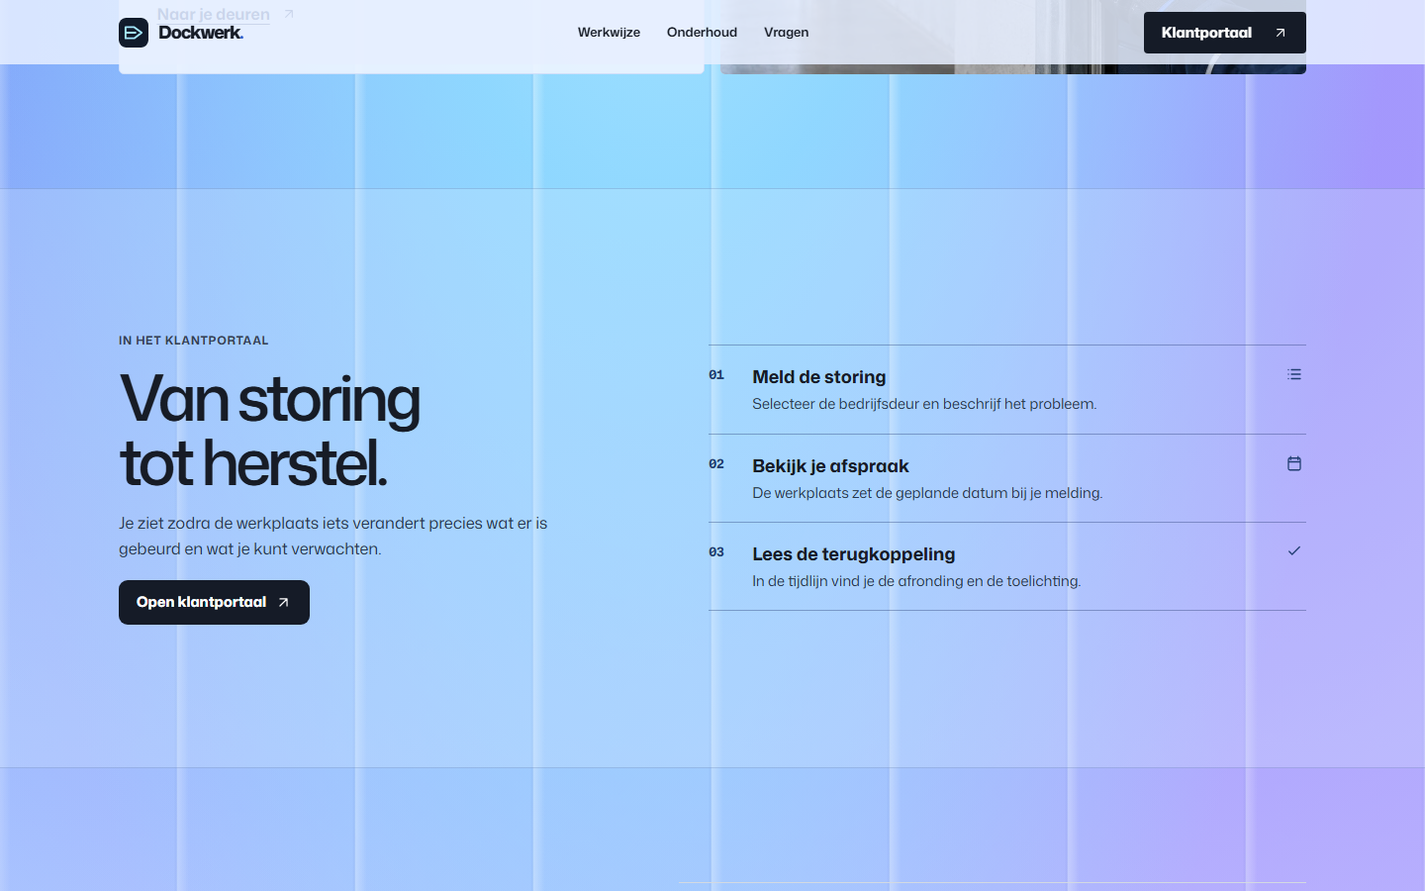
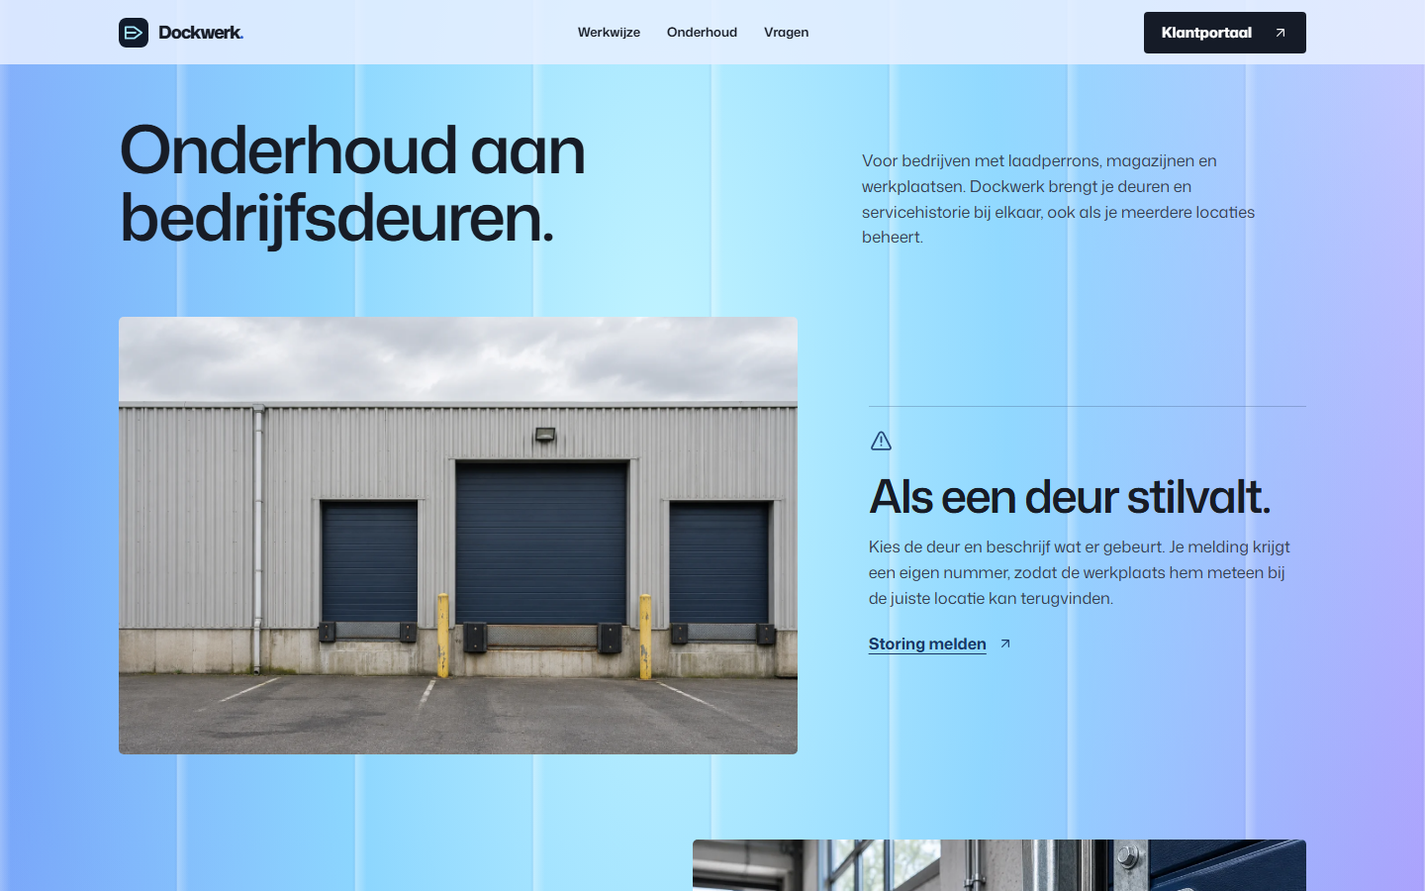
Show the Dockwerk service workflow in an interactive homepage preview

diff --git a/resources/css/home.css b/resources/css/home.css
@@ -1,7 +1,7 @@
 .mode-home {
     --studio-ink: #171c26;
     --studio-muted: #354154;
-    --studio-rule: #d3d9e1;
+    --studio-rule: #41588250;
     color: var(--studio-ink);
 }
 .mode-home .shell { width: min(100% - 112px, 1200px); }
@@ -44,55 +44,114 @@
 .cover-lit .cover-meta { flex-direction: column-reverse; align-items: center; gap: 16px; }
 .cover-lit .cover-meta p { max-width: 47ch; text-wrap: balance; }
 .cover-lit::after { background: linear-gradient(180deg, #07192a40, transparent 40%, #0814266b 64%, #081426f0 100%); }
-.studio-label, .sheet-top { font-size: .73rem; font-weight: 680; color: var(--studio-muted); letter-spacing: .06em; text-transform: uppercase; }
 .service-section, .faq-section { padding-block: clamp(60px, 8vw, 119px); scroll-margin-top: 85px; }
 .service-intro, .faq-section { display: grid; grid-template-columns: 1fr 1.2fr; gap: 38px; align-items: start; }
-.service-intro { margin-bottom: clamp(31px, 4.2vw, 60px); }
-.service-intro h2, .workflow-inner h2, .faq-section h2, .closing-inner h2 { font-size: clamp(2.7rem, 4.45vw, 4.65rem); font-weight: 540; letter-spacing: -.068em; line-height: 1.02; }
-.service-intro p, .workflow-inner > div > p:not(.studio-label), .faq-section > div > p, .service-sheet p { color: var(--studio-muted); font-size: 1.02rem; line-height: 1.57; margin-top: 17px; max-width: 44ch; }
-.service-pair { display: grid; grid-template-columns: 1fr 1fr; gap: 16px; margin-top: 16px; }
+.service-intro { grid-template-columns: 1.35fr .85fr; align-items: end; margin-bottom: clamp(31px, 4.8vw, 68px); }
+.service-intro h2, .workflow-inner h2, .faq-section h2, .closing-inner h2 { font-size: clamp(2.5rem, 4.65vw, 4.65rem); font-weight: 560; letter-spacing: -.04em; line-height: 1.02; }
+.service-intro h2 { max-width: 15ch; }
+.service-intro p, .workflow-copy p, .faq-section > div > p, .service-sheet p { color: var(--studio-muted); font-size: 1.02rem; line-height: 1.57; margin-top: 17px; max-width: 44ch; }
+.service-intro p { margin: 0; }
+.service-pair { display: grid; grid-template-columns: 1.55fr 1fr; align-items: center; gap: clamp(34px, 5vw, 80px); }
+.service-pair-reverse { grid-template-columns: 1fr 1.22fr; margin-top: clamp(44px, 6vw, 86px); }
 .service-pair-reverse .service-image { order: 2; }
-.service-image { overflow: clip; background: #dce2df; border-radius: 5px; }
-.service-image img { display: block; width: 100%; height: 100%; min-height: 315px; max-height: 480px; object-fit: cover; }
-.service-sheet { display: flex; flex-direction: column; min-height: 315px; align-items: start; padding: clamp(21px, 2.6vw, 39px); background: #edf4ffe8; border: 1px solid #d0dffa; border-radius: 5px; }
-.sheet-top { display: flex; align-items: center; justify-content: space-between; width: 100%; gap: 12px; border-bottom: 1px solid #c8ced7; padding-bottom: 12px; margin-bottom: 16px; }
-.service-sheet h3 { font-size: clamp(1.9rem, 3.25vw, 3.3rem); font-weight: 565; letter-spacing: -.06em; line-height: 1.05; }
-.service-sheet p { margin-top: 14px; padding-bottom: 14px; }
-.studio-link { display: inline-flex; align-items: center; gap: 11px; min-height: 44px; margin-top: auto; font-weight: 680; color: #233f78; text-decoration: underline; text-underline-offset: 4px; }
+.service-image { aspect-ratio: 1.55; overflow: clip; background: #354154; border-radius: 5px; }
+.service-pair-reverse .service-image { aspect-ratio: 1.68; }
+.service-image img { display: block; width: 100%; height: 100%; object-fit: cover; }
+.service-sheet { min-width: 0; padding-top: 22px; border-top: 1px solid var(--studio-rule); }
+.service-icon { color: #254779; margin-bottom: 18px; }
+.service-sheet h3 { font-size: clamp(1.85rem, 3.25vw, 3.3rem); font-weight: 570; letter-spacing: -.04em; line-height: 1.06; }
+.service-sheet p { margin-top: 14px; }
+.studio-link { display: inline-flex; align-items: center; gap: 11px; min-height: 44px; margin-top: 12px; font-weight: 680; color: #183667; text-decoration: underline; text-underline-offset: 4px; }
 .studio-primary svg, .studio-link svg, .closing-button svg, .mode-home .nav-cta svg { transition: transform .22s; }
 .studio-primary:hover svg, .studio-link:hover svg, .closing-button:hover svg, .mode-home .nav-cta:hover svg,
 .studio-primary:focus-visible svg, .studio-link:focus-visible svg, .closing-button:focus-visible svg { transform: translate(4px, -3px); }
-.workflow-section { background: #deedff3b; border-block: 1px solid #34548b35; scroll-margin-top: 65px; }
-.workflow-inner { display: grid; grid-template-columns: .9fr 1.13fr; gap: clamp(35px, 8vw, 133px); align-items: center; padding-block: clamp(65px, 10vw, 150px); }
-.workflow-inner h2 { margin-top: 15px; }
-.workflow-inner > div > p:not(.studio-label) { color: #27374e; }
-.studio-primary { margin-top: 19px; }
-.studio-steps { padding: 0; list-style: none; border-top: 1px solid #12275d55; }
-.studio-steps li { display: grid; grid-template-columns: 34px minmax(0, 1fr) 22px; gap: 10px; padding: 18px 0; border-bottom: 1px solid #12275d55; }
-.studio-steps li > span, .studio-steps li > svg { color: #203d71; padding-top: 2px; }
-.studio-steps li > span { font-size: .81rem; font-weight: 740; font-variant-numeric: tabular-nums; }
-.studio-steps h3 { font-size: 1.13rem; font-weight: 700; margin-bottom: 3px; }
-.studio-steps p { color: #27374e; font-size: .92rem; line-height: 1.51; }
+.workflow-section { scroll-margin-top: 85px; }
+.workflow-inner {
+    display: grid;
+    grid-template-columns: minmax(0, .8fr) minmax(0, 1.2fr);
+    gap: clamp(30px, 5vw, 72px);
+    align-items: center;
+    padding: clamp(24px, 5vw, 70px);
+    border-radius: 6px;
+    color: #f3f9ff;
+    background: radial-gradient(ellipse at 87% 16%, #2a4675, transparent 67%), #101b2d;
+}
+.workflow-copy p { color: #c7d7ee; }
+.studio-primary { margin-top: 22px; background: #def3ff; color: #142641; }
+.studio-primary:hover { background: #fff; color: #142641; }
+.studio-primary:focus-visible { outline-color: #b9f3ff; }
+.workflow-preview { min-inline-size: 0; }
+.preview-controls { display: grid; grid-template-columns: repeat(3, minmax(0, 1fr)); gap: 5px; padding: 5px; background: #0c1729; border: 1px solid #6682aa; border-radius: 7px; margin-bottom: 12px; }
+.preview-choice { display: flex; justify-content: center; align-items: center; gap: 8px; min-height: 45px; border-radius: 4px; color: #d4e3fc; font-size: .84rem; font-weight: 680; cursor: pointer; }
+.preview-choice:hover { background: #263f63; color: #fff; }
+.preview-choice:has(input:checked) { background: #e2f2ff; color: #142641; }
+.preview-choice:has(input:focus-visible) { outline: 2px solid #94eaff; outline-offset: 2px; }
+.preview-ticket { overflow: hidden; border-radius: 7px; background: #eff6ff; color: #142641; }
+.preview-ticket-title { padding: clamp(17px, 3vw, 30px); background: #e4efff; border-bottom: 1px solid #bdcdec; }
+.preview-ticket-title p:first-child { display: flex; flex-wrap: wrap; justify-content: space-between; column-gap: 12px; font-size: .8rem; font-weight: 700; color: #294c7a; }
+.preview-ticket-title p:last-child { font-size: .9rem; color: #354d6a; }
+.preview-ticket-title h3 { margin-block: 8px 5px; font-size: clamp(1.4rem, 2.45vw, 2.15rem); font-weight: 660; line-height: 1.12; letter-spacing: -.035em; }
+.preview-stages { display: grid; }
+.preview-stage { grid-area: 1 / 1; padding: clamp(17px, 3vw, 30px); visibility: hidden; }
+.preview-stage h4 { margin-block: 10px 3px; font-size: 1.02rem; font-weight: 740; line-height: 1.3; }
+.preview-stage p { font-size: .92rem; line-height: 1.5; color: #354d6a; max-width: 45ch; }
+.workflow-preview:has([value="reported"]:checked) #preview-reported,
+.workflow-preview:has([value="scheduled"]:checked) #preview-scheduled,
+.workflow-preview:has([value="completed"]:checked) #preview-completed {
+    visibility: visible;
+    animation: preview-enter .28s ease-out both;
+}
+@keyframes preview-enter {
+    from { opacity: .55; transform: translateY(6px); }
+}
+@media (prefers-reduced-motion: reduce) {
+    .preview-stage { animation-duration: 0.01ms !important; }
+}
 .faq-list { border-top: 1px solid var(--studio-rule); }
 .faq-list details { border-bottom: 1px solid var(--studio-rule); }
 .faq-list summary { list-style: none; cursor: pointer; display: flex; justify-content: space-between; align-items: center; gap: 15px; padding-block: 15px; min-height: 54px; font-weight: 650; }
 .faq-list summary:focus-visible { outline: 3px solid #2563df; outline-offset: 3px; }
 .faq-list summary::-webkit-details-marker { display: none; }
-.faq-list summary span { display: grid; place-items: center; width: 24px; height: 24px; flex: none; background: #edf2f9; border-radius: 3px; }
+.faq-list summary span { display: grid; place-items: center; width: 32px; height: 32px; flex: none; background: #edf4ff; color: #1b3b70; border-radius: 4px; transition: background-color .2s, color .2s; }
+.faq-list summary:hover span, .faq-list details[open] summary span { background: #253e65; color: #eff6ff; }
 .faq-list summary span::before, .faq-list summary span::after { content: ''; grid-area: 1 / 1; width: 11px; height: 1px; background: currentColor; transition: transform .23s; }
 .faq-list summary span::after { transform: rotate(90deg); }
 .faq-list details[open] summary span::after { transform: rotate(0); }
 .faq-list details p { margin: 0 37px 17px 0; color: var(--studio-muted); line-height: 1.6; max-width: 54ch; }
-.closing-section { background: #dce8ff8c; border-top: 1px solid #34548b45; }
-.closing-inner { padding-block: clamp(43px, 7vw, 90px); display: flex; justify-content: space-between; gap: 21px; align-items: center; }
+.closing-section { padding-bottom: clamp(28px, 5vw, 74px); }
+.closing-inner {
+    position: relative;
+    isolation: isolate;
+    padding: clamp(26px, 5vw, 71px);
+    display: flex;
+    justify-content: space-between;
+    gap: 21px;
+    align-items: center;
+    border-radius: 6px;
+    background: #172940;
+    color: #f3f9ff;
+}
+.closing-inner::before {
+    content: '';
+    position: absolute;
+    z-index: -1;
+    inset: 0;
+    border-radius: inherit;
+    background: repeating-linear-gradient(180deg, #c6e2ff29 0 1px, transparent 1px 23px, #040d1b6b 23px 25px), #274163;
+    mask-image: linear-gradient(90deg, transparent 22%, #000);
+}
 .closing-inner h2 { max-width: 18ch; }
-.closing-button { background: #151b27; color: white; flex-shrink: 0; }
-.closing-button:hover { background: #283f62; }
+.closing-button { background: #def3ff; color: #142641; flex-shrink: 0; }
+.closing-button:hover { background: #fff; }
+.closing-button:focus-visible { outline-color: #b9f3ff; }
 
 @media (max-width: 1000px) {
     .mode-home .shell { width: calc(100% - 64px); }
     .cover { min-height: clamp(555px, calc(100svh - 65px), 790px); }
     .cover h1 { font-size: 17vw; }
+}
+@media (max-width: 820px) {
+    .workflow-inner { grid-template-columns: minmax(0, 1fr); }
 }
 @media (max-width: 730px) {
     .mode-home .shell { width: calc(100% - 36px); }
@@ -110,13 +169,16 @@
     .cover-content { padding-bottom: 24px; }
     .cover-meta { flex-direction: column-reverse; align-items: start; gap: 12px; }
     .cover-meta p { font-size: .92rem; }
-    .service-intro, .service-pair, .workflow-inner, .faq-section { grid-template-columns: minmax(0, 1fr); gap: 16px; }
-    .service-pair { gap: 7px; }
+    .service-intro, .service-pair, .faq-section { grid-template-columns: minmax(0, 1fr); gap: 20px; }
     .service-pair-reverse .service-image { order: 0; }
-    .service-image img { max-height: 295px; min-height: 235px; }
-    .service-sheet { min-height: 248px; }
-    .workflow-inner, .faq-section { gap: 28px; }
+    .service-sheet { padding-top: 16px; }
+    .service-icon { margin-bottom: 12px; }
     .closing-inner { flex-direction: column; align-items: flex-start; }
+}
+
+@media (max-width: 425px) {
+    .preview-choice { font-size: .77rem; }
+    .preview-choice svg { display: none; }
 }
 
 @media (max-width: 365px) {

diff --git a/tests/browser/portal.spec.js b/tests/browser/portal.spec.js
@@ -27,6 +27,19 @@ test('de homepage is bruikbaar met toetsenbord en op mobiel', async ({ page }) =
     await page.locator('.service-pair').first().scrollIntoViewIfNeeded();
     await expect.poll(() => page.locator('.service-photo').first().evaluate(image => image.complete && image.naturalWidth > 0)).toBe(true);
     expect((await new AxeBuilder({ page }).withTags(['wcag2a', 'wcag2aa', 'wcag21aa']).analyze()).violations).toEqual([]);
+
+    const preview = page.getByRole('group', { name: 'Status van de voorbeeldmelding' });
+    const reported = preview.getByRole('radio', { name: 'Gemeld' });
+    await expect(reported).toBeChecked();
+    await expect(preview.getByText('Over de melding')).toBeVisible();
+    await reported.focus();
+    await page.keyboard.press('ArrowRight');
+    await expect(preview.getByRole('radio', { name: 'Ingepland' })).toBeChecked();
+    await expect(preview.getByText('Afspraak op 20 november')).toBeVisible();
+    await preview.getByText('Afgerond', { exact: true }).filter({ visible: true }).click();
+    await expect(preview.getByText('De eindschakelaar is opnieuw afgesteld.', { exact: false })).toBeVisible();
+    await expect(preview.getByText('Afspraak op 20 november')).toBeHidden();
+
     for (const width of [1024, 768, 390, 320, 390]) {
         await page.setViewportSize({ width, height: 844 });
         await expect.poll(() => page.evaluate(() => document.documentElement.scrollWidth)).toBe(width);

diff --git a/resources/js/home-motion.js b/resources/js/home-motion.js
@@ -43,6 +43,17 @@ export function startHomeMotion() {
             scrollTrigger: { trigger: '#inhoud', start: 'top top', end: 'bottom bottom', scrub: 0.65 },
         });
 
+        for (const image of document.querySelectorAll('.service-photo')) {
+            gsap.fromTo(image,
+                { scale: 1.1, yPercent: -4 },
+                {
+                    yPercent: 4,
+                    ease: 'none',
+                    scrollTrigger: { trigger: image.parentElement, start: 'top bottom', end: 'bottom top', scrub: 0.45 },
+                },
+            );
+        }
+
         for (const element of document.querySelectorAll('[data-appear]')) {
             gsap.from(element, {
                 y: 29, duration: 0.76, ease: 'power3.out', clearProps: 'transform',

diff --git a/resources/views/home.blade.php b/resources/views/home.blade.php
@@ -23,22 +23,22 @@
 
     <section id="onderhoud" class="shell service-section" aria-labelledby="maintenance-title">
         <div class="service-intro">
-            <span class="studio-label">Onderhoud & service</span>
-            <div data-appear><h2 id="maintenance-title">Een deur die werkt.<br>Een werkplaats die door kan.</h2><p>Voor bedrijven met laadperrons, magazijnen en werkplaatsen. Dockwerk brengt je deuren en servicehistorie bij elkaar, ook als je meerdere locaties beheert.</p></div>
+            <h2 id="maintenance-title" data-appear>Onderhoud aan bedrijfsdeuren.</h2>
+            <p data-appear>Voor bedrijven met laadperrons, magazijnen en werkplaatsen. Dockwerk brengt je deuren en servicehistorie bij elkaar, ook als je meerdere locaties beheert.</p>
         </div>
-        <article class="service-pair" data-appear>
+        <article class="service-pair">
             <figure class="service-image"><img class="service-photo" src="{{ asset('images/laadperron.webp') }}" alt="Drie bedrijfsdeuren aan het laadperron van een distributiehal" loading="lazy" width="1536" height="1024"></figure>
-            <div class="service-sheet">
-                <div class="sheet-top"><span>01 / Storingen</span><x-dock-icon name="alert" :size="19" /></div>
+            <div class="service-sheet" data-appear>
+                <x-dock-icon name="alert" :size="25" class="service-icon" />
                 <h3>Als een deur stilvalt.</h3>
                 <p>Kies de deur en beschrijf wat er gebeurt. Je melding krijgt een eigen nummer, zodat de werkplaats hem meteen bij de juiste locatie kan terugvinden.</p>
                 <a class="studio-link" href="{{ $portalUrl }}">Storing melden <x-dock-icon name="up-right" :size="16" /></a>
             </div>
         </article>
-        <article class="service-pair service-pair-reverse" data-appear>
+        <article class="service-pair service-pair-reverse">
             <figure class="service-image"><img class="service-photo" src="{{ asset('images/onderhoud.webp') }}" alt="Een monteur inspecteert de geleider van een industriële deur" loading="lazy" width="1100" height="734"></figure>
-            <div class="service-sheet">
-                <div class="sheet-top"><span>02 / Bedrijfsdeuren</span><x-dock-icon name="door" :size="19" /></div>
+            <div class="service-sheet" data-appear>
+                <x-dock-icon name="door" :size="25" class="service-icon" />
                 <h3>Grip op elke locatie.</h3>
                 <p>Open het overzicht van je bedrijf. Je ziet de geregistreerde deuren, hun locatie en de voortgang van iedere gemelde storing.</p>
                 <a class="studio-link" href="{{ $portalUrl }}">Naar je deuren <x-dock-icon name="up-right" :size="16" /></a>
@@ -48,17 +48,12 @@
 
     <section id="werkwijze" class="workflow-section" aria-labelledby="workflow-title">
         <div class="shell workflow-inner">
-            <div data-appear>
-                <p class="studio-label">In het klantportaal</p>
+            <div class="workflow-copy" data-appear>
                 <h2 id="workflow-title">Van storing<br>tot herstel.</h2>
-                <p>Je ziet zodra de werkplaats iets verandert precies wat er is gebeurd en wat je kunt verwachten.</p>
+                <p>Kies een status bij de voorbeeldmelding en zie wat er in het klantportaal verschijnt.</p>
                 <a class="button studio-primary" href="{{ $portalUrl }}">Open klantportaal <x-dock-icon name="up-right" :size="17" /></a>
             </div>
-            <ol class="studio-steps" aria-label="Stappen in een servicemelding">
-                <li data-appear><span aria-hidden="true">01</span><div><h3>Meld de storing</h3><p>Selecteer de bedrijfsdeur en beschrijf het probleem.</p></div><x-dock-icon name="list" /></li>
-                <li data-appear><span aria-hidden="true">02</span><div><h3>Bekijk je afspraak</h3><p>De werkplaats zet de geplande datum bij je melding.</p></div><x-dock-icon name="calendar" /></li>
-                <li data-appear><span aria-hidden="true">03</span><div><h3>Lees de terugkoppeling</h3><p>In de tijdlijn vind je de afronding en de toelichting.</p></div><x-dock-icon name="check" /></li>
-            </ol>
+            <x-workflow-preview />
         </div>
     </section>
 

diff --git a/resources/views/components/workflow-preview.blade.php b/resources/views/components/workflow-preview.blade.php
@@ -1,0 +1,56 @@
+@php
+    use App\Enums\RequestStatus;
+
+    $steps = [
+        [
+            'status' => RequestStatus::Reported,
+            'icon' => 'list',
+            'title' => 'Over de melding',
+            'note' => 'De deur stopt halverwege en gaat daarna automatisch weer omhoog.',
+        ],
+        [
+            'status' => RequestStatus::Scheduled,
+            'icon' => 'calendar',
+            'title' => 'Afspraak op 20 november',
+            'note' => 'De werkplaats komt langs bij het laadperron in Sneek.',
+        ],
+        [
+            'status' => RequestStatus::Completed,
+            'icon' => 'check',
+            'title' => 'Terugkoppeling van de werkplaats',
+            'note' => 'De eindschakelaar is opnieuw afgesteld. De deur sluit weer volledig.',
+        ],
+    ];
+@endphp
+
+<fieldset class="workflow-preview">
+    <legend class="sr-only">Status van de voorbeeldmelding</legend>
+
+    <div class="preview-controls">
+        @foreach ($steps as $step)
+            <label class="preview-choice">
+                <input class="sr-only" type="radio" name="preview-status" value="{{ $step['status']->value }}"
+                    aria-controls="preview-{{ $step['status']->value }}" @checked($loop->first)>
+                <x-dock-icon :name="$step['icon']" :size="17" />
+                {{ $step['status']->getLabel() }}
+            </label>
+        @endforeach
+    </div>
+
+    <div class="preview-ticket">
+        <header class="preview-ticket-title">
+            <p>Voorbeeldmelding <span>DW-0001</span></p>
+            <h3>Laadpoort 3 sluit niet</h3>
+            <p>Noordkade Logistiek · Sneek</p>
+        </header>
+        <div class="preview-stages">
+            @foreach ($steps as $step)
+                <div class="preview-stage" id="preview-{{ $step['status']->value }}">
+                    <x-status :status="$step['status']" />
+                    <h4>{{ $step['title'] }}</h4>
+                    <p>{{ $step['note'] }}</p>
+                </div>
+            @endforeach
+        </div>
+    </div>
+</fieldset>

diff --git a/DESIGN.md b/DESIGN.md
@@ -1,6 +1,10 @@
 # Ontwerp van Dockwerk
 
-De homepage is opgebouwd rond een brede avondfoto van een laadperron. Het woordmerk staat onderin het beeld en de kernnavigatie is compact. Daarna volgen twee onderdelen met foto en tekst naast elkaar, het klantportaalproces en een FAQ. De Nederlandse copy beschrijft de taken die daadwerkelijk in het portaal werken.
+De homepage is opgebouwd rond een brede avondfoto van een laadperron. Het woordmerk staat onderin het beeld en de kernnavigatie is compact. De servicefoto’s wisselen van kant op desktop en krijgen op mobiel een eigen rij. Daarna volgen het interactieve portaalvoorbeeld, de FAQ en een afsluiting met dezelfde horizontale lamellen als de roldeur in de opening.
+
+## Portaalvoorbeeld
+
+De sectie Werkwijze laat zien wat een klant bij een melding ziet. De drie keuzes Gemeld, Ingepland en Afgerond gebruiken gewone radioknoppen. De voorbeeldmelding is in Blade opgebouwd met dezelfde statuslabels als het klantportaal. De inhoud wisselt met CSS, ook met JavaScript uitgeschakeld. Het donkere paneel staat binnen de lichte Glacier-achtergrond. [Schermafbeelding van het portaalvoorbeeld](docs/screenshots/portaalvoorbeeld.png)
 
 ## Glacier
 
@@ -10,7 +14,7 @@ Glacier is de doorlopende achtergrond van de homepage, het inlogscherm, het klan
 
 Vlak na het openen schuift een stalen roldeur omhoog en komt de hele avondfoto in beeld. De roldeur bestaat uit CSS en beweegt mee met de bestaande GSAP-tijdlijn. De foto, tekst en serviceknop zijn direct beschikbaar. Bij scrollen verschuift de foto binnen het kader. In de rest van de homepage schuiven specifieke inhoudsblokken licht in beeld en beweegt de gloed van Glacier mee. Lenis wordt alleen geladen voor precies aanwijzen. Op een aanraakscherm blijft de scroll native. Bij een voorkeur voor minder beweging blijven de animatiebundels bij de eerste weergave buiten de download. Als de voorkeur tijdens het bezoek verandert, past de site de JavaScript-animaties en scrollverzachting aan.
 
-De FAQ en het mobiele menu gebruiken native HTML-disclosures. De foto van het laadperron heeft een afzonderlijke mobiele uitsnede. Mona Sans en de drie gegenereerde projectfoto’s staan lokaal in de app.
+De servicefoto’s bewegen licht binnen hun kader tijdens het scrollen. Bij minder beweging blijven de foto’s stil en wisselt de voorbeeldmelding direct van inhoud. De FAQ en het mobiele menu gebruiken native HTML-disclosures. De foto van het laadperron heeft een afzonderlijke mobiele uitsnede. Mona Sans en de drie gegenereerde projectfoto’s staan lokaal in de app.
 
 Via [de lichtvariant](http://127.0.0.1:8765/?intro=licht) krijgt dezelfde foto een overgang van gedempt naar helder licht en staat het woordmerk gecentreerd boven de serviceknop. Beide openingen gebruiken hetzelfde beeldbestand per schermformaat. [Schermafbeelding van de lichtvariant](docs/screenshots/homepage-licht.png)
 

diff --git a/docs/VOORTGANG.md b/docs/VOORTGANG.md
@@ -51,3 +51,9 @@ Ahmad vroeg om de Glacier-versie te bewaren en een opvallendere variant te maken
 Op verzoek van Ahmad loopt de openingsfoto in beide varianten tot de linker- en rechterrand. De homepage opent standaard met de roldeur. De [lichtvariant](http://127.0.0.1:8765/?intro=licht) heeft een gecentreerde compositie en laat het licht op de foto geleidelijk opkomen.
 
 De build, Pint, 9 PHP-tests en 2 Chromium-tests slaagden. De browsertest controleert de fotobreedte van 320 tot 1440 px en de lichtvariant met minder beweging. Beide openingen zijn apart in Chromium gecontroleerd. Op 320 px had de lichtvariant geen horizontale overflow of overtredingen van de geselecteerde axe-regels.
+
+## Interactief portaalvoorbeeld en servicefoto’s
+
+Ahmad vroeg om de homepage op meerdere plekken levendiger te maken. In Werkwijze kun je nu door drie statussen van een fictieve melding gaan. Het paneel gebruikt de bestaande statuslabels en staat tussen de Glacier-banen. De servicefoto’s wisselen van kant op desktop en bewegen mee met het scrollen. De FAQ-bediening en de afsluiting hebben meer contrast. In de afsluiting komen de lamellen van de openingsanimatie terug.
+
+De voorbeeldmelding is met toetsenbord, muis en aanraakemulatie gecontroleerd. De keuzes werken op 320, 390 en 1440 px met JavaScript uit. De servicefoto verschoof 23,2 px tussen twee meetpunten in Chromium en stond stil met minder beweging. [Schermafbeelding](screenshots/portaalvoorbeeld.png)

diff --git a/README.md b/README.md
@@ -54,4 +54,5 @@ De PHP-tests gebruiken SQLite in het geheugen. De browsertests starten een eigen
 - [Gekozen en beoordeelde skills, tools en referenties](docs/TOOLS.md)
 - [Ontwerp en beeld](DESIGN.md) · [Referentieonderzoek](docs/REFERENTIES.md)
 - [Ontwikkelstatus en verificatie](docs/VOORTGANG.md)
+- [Interactieve voorbeeldmelding](http://127.0.0.1:8765/#werkwijze) · [Schermafbeelding](docs/screenshots/portaalvoorbeeld.png)
 - [Klantportaal](docs/screenshots/klantportaal.png) · [Werkplaats](docs/screenshots/werkplaats.png) · [Mobiele homepage](docs/screenshots/homepage-mobiel.png) · [Doorlopende Glacier-achtergrond](docs/screenshots/glacier.png) · [Beweging in de vorige versie](docs/screenshots/dockwerk-motion.mp4)
